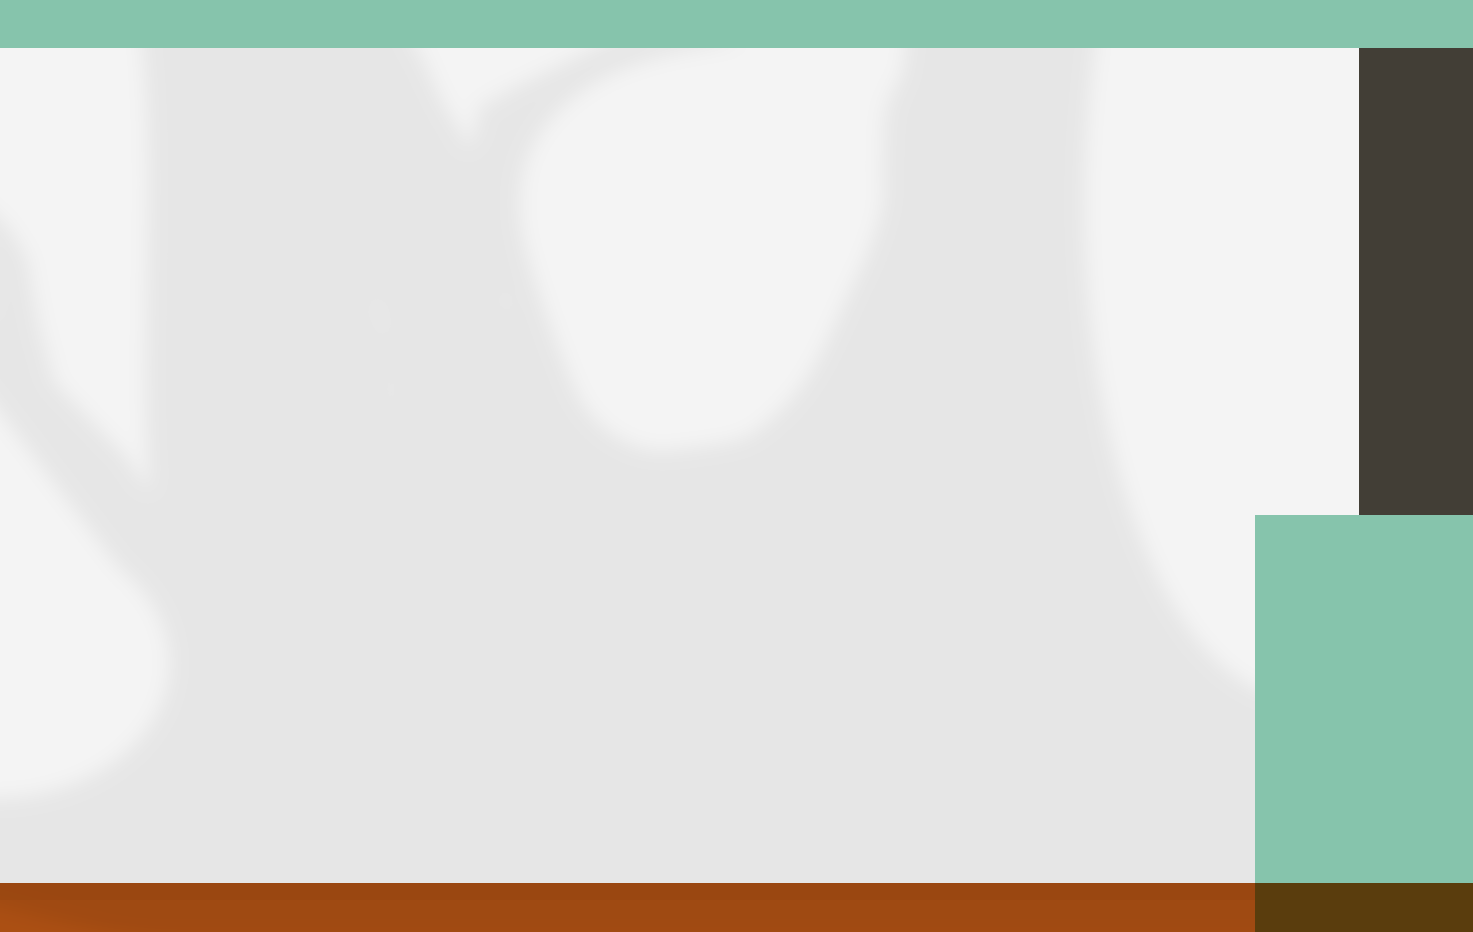
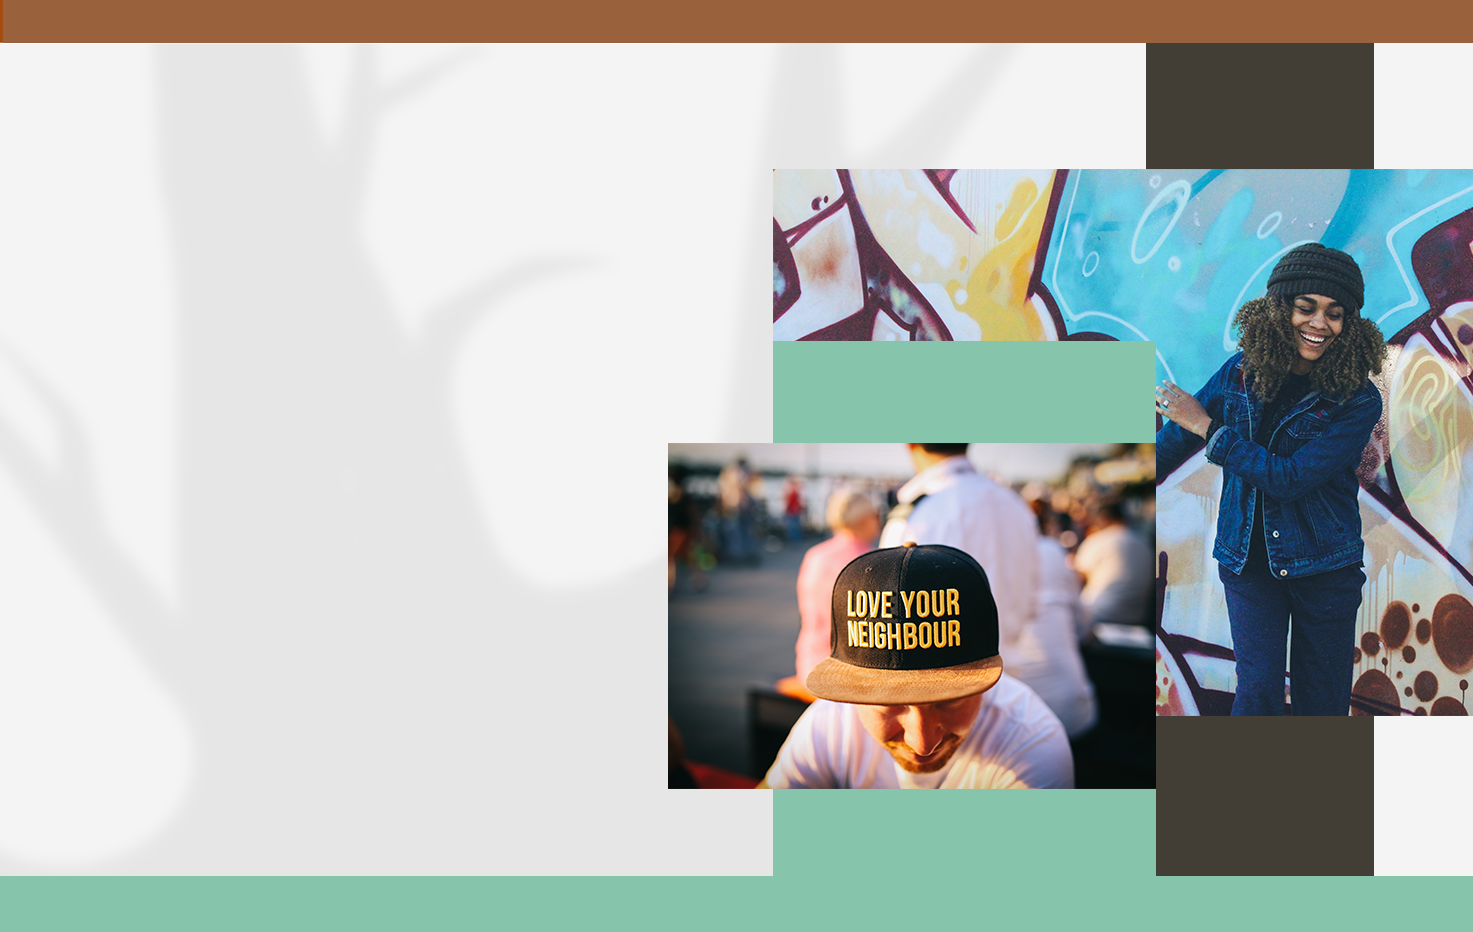
updated bg and css

diff --git a/index.html b/index.html
@@ -50,7 +50,7 @@
 
     <ul id="menu">
       <a href="#about"><li>Story</li></a>
-      <a href="#feature"><li>The App</li></a>
+      <a href="#feature"><li>Knocknock</li></a>
       <a href="#feature2"><li>Layout</li></a>
       <a href="#feature3"><li>Experience</li></a>
       <a href="#feature4"><li>More</li></a>
@@ -77,17 +77,16 @@
                   <!-- <img src="images/about.png">-->
               <h2>Story</h2>
               <div class="text">
-                  <p>Many of the barriers minority and immigrant family face when they are renting an apartment are the result of invisible force of unconscious bias and stereotypes. The language barriers also intensify the misunderstanding of each other. </p>
-                  <p>This app is to break down those barriers and let people interact with their neighbors freely and more openly, to create a respectful digital space that supports people from different background to understand each other; to build a stronger community that minimizes crimes and raises neighborhood awareness and work together to create a better environment to live in.</p>
-<p>Multiple languages support will be available through live-time translation in the app. The website I’m working on is to introduce and promote the app, it will demonstrate the features of the app and how to make neighborhood communities livable and strong.</p>
-</div>
-              <img src="images/neighbor.gif" height="784px";>
+                  <p>Knocknock is a story about bringing people together, no matter their color, ethnicity, or background differences. Knocknock is a neighborhood app invite people to join and share their story and connect with their neighbors and landlord. </p>
+                  <p>Knocknock is to break down language barriers and let people interact with their neighbors freely and more openly, to create a respectful digital space that supports people from different background to understand each other; to build a stronger community that minimizes crimes and raises neighborhood awareness and work together to create a better environment to live in.</p>
+<p>Multiple languages support will be available through live-time translation in the app. Knocknock is all about making neighborhood communities livable and strong.</p>
+</div>  <img src="images/neighbor.gif">
           </div> 
       </section>
       
        <section id="feature"> 
           <div class="feature">
-              <h2>The App</h2>
+              <h2>Knocknock</h2>
              <!-- <img src="images/home.png"><img src="images/burger.png">-->
               <div class="right">
                   <p>The login page is easy to use. You could either type in your username and password or you start a new account by clicking register. </p>
@@ -130,8 +129,9 @@
                   <p>It conveniently and simply serves your needs. It makes conversation with your neighbors and landload easy with the help of the digital technology. </p>
          
 </div> <div class="feature5">
-              <img src="images/moment.png" style="margin-left:8%; padding: 20px;"><img src="images/action.png">
-              </div> </div>
+              <img src="images/moment.png"><img src="images/action.png">
+              </div>
+         </div>
       </section>
       
       <!-- Contact -->
@@ -171,8 +171,8 @@
   </form>
 </div>
 			</section>
-
-        <iframe src="images/walk.gif" height="784px"></iframe>
+ <!-- animation
+        <iframe src="images/walk.gif" height="784px"></iframe> -->
       <div class="mdl-layout__obfuscator"></div>
     <script src="https://code.getmdl.io/1.3.0/material.min.js"></script>
   </body>

diff --git a/styles.css b/styles.css
@@ -60,8 +60,8 @@ h1 {
     width:37%;
     position: relative;
     float: right;
-    right: 15%;
-    top: -30%;
+    right: 16%;
+    top: -25%;
     clear: both;
 }
 .text {
@@ -78,7 +78,7 @@ h1 {
     float: right;
     position: relative;
     top: 8%;
-    right:1%;
+    right:-25%;
     font-size:48px;
     z-index: 5;
     Color:#fff;
@@ -105,7 +105,7 @@ h1 {
     clear: both;
     font-weight: bold;
     right:0;
-    top: -50px;
+    top: -10px;
     width: 40%;
     padding: 50px;
     font-size: 16px;
@@ -164,16 +164,17 @@ h1 {
     float: right;
     position: relative;
     top: 8%;
-    right:1%;
+    right:3%;
     font-size:48px;
     z-index: 5;
     Color:#fff;
 }
 .feature5 img {
     position: relative;
-    top:50px;
-    width: 15%;
-    padding: 0;
+    width: 10%;
+    right: 30%;
+    top: 350px;
+    padding: 20px;
 }
 .feature3 img {
     position: relative;
@@ -207,7 +208,7 @@ h1 {
 .feature4 h2 {
     font-family: 'Julius Sans One',"Lobster", Helvetica, sans-serif;
     position: relative;
-     top: 12%;
+     top: 10%;
      left:5%;
     width:95%;
 }
@@ -216,7 +217,7 @@ h1 {
     font-family: "Nunito", Helvetica, Arial, sans-serif;
     float: left;
     clear:both;
-    top: 15%;
+    top: 10%;
 }
 
 input[type=text], select, textarea {
@@ -275,6 +276,7 @@ label{
     top: 2%;
     width: 41%;
     float: right;
+    right: 5%;
     Color:#fff;
 }
 
@@ -406,8 +408,8 @@ a:hover
 #menu
 {
   position: absolute;
-  width: 120px;
-  margin: -100px 0 0 -120px;
+  width: 130px;
+  margin: -100px 0 0 -130px;
   padding: 50px;
   padding-top: 125px;
   font-family: 'Julius Sans One',"Nunito", Helvetica, Arial, sans-serif;
